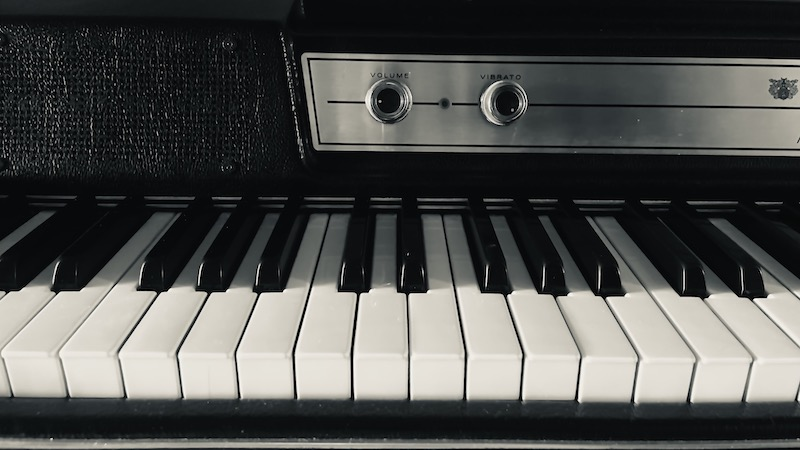
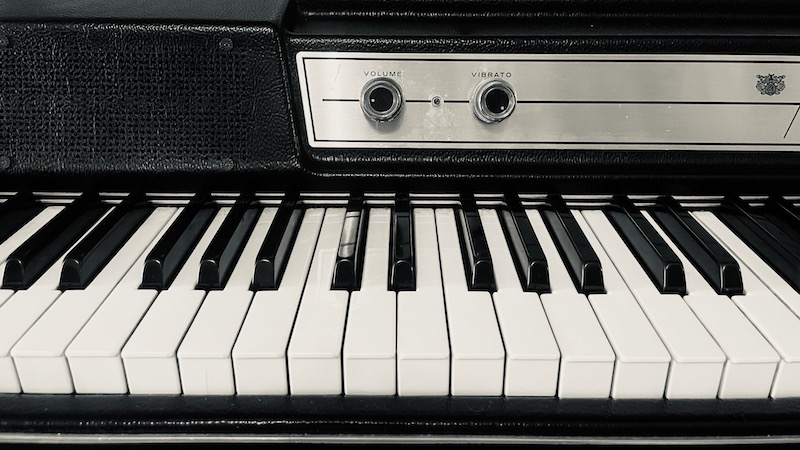
nav fixes

diff --git a/guitarlessons.html b/guitarlessons.html
@@ -81,11 +81,11 @@
 
                 <!-- Navigation Sidebar -->
                 <div class="bio-navigation">
-                    <a href="/" class="nav-link">Home</a>
-                    <a href="/voicelessons" class="nav-link">Vocal Approach</a>
-                    <a href="/guitarlessons" class="nav-link">Guitar Philosophy</a>
-                    <a href="/songwritinglessons" class="nav-link">Songwriting Sessions</a>
-                    <a href="/production" class="nav-link">Studio Production</a>
+                    <a href="/" class="nav-link">HOME</a>
+                    <a href="/voicelessons" class="nav-link">VOICE LESSONS</a>
+                    <a href="/guitarlessons" class="nav-link">GUITAR LESSONS</a>
+                    <a href="/songwritinglessons" class="nav-link">SONGWRITING LESSONS</a>
+                    <a href="/production" class="nav-link">RECORDING & PRODUCTION</a>
                 </div>
             </div>
       </div>

diff --git a/production.html b/production.html
@@ -151,11 +151,11 @@
 
                 <!-- Navigation Sidebar -->
                 <div class="bio-navigation">
-                    <a href="/" class="nav-link">Home</a>
-                    <a href="/voicelessons" class="nav-link">Vocal Approach</a>
-                    <a href="/guitarlessons" class="nav-link">Guitar Philosophy</a>
-                    <a href="/songwritinglessons" class="nav-link">Songwriting Sessions</a>
-                    <a href="/production" class="nav-link">Studio Production</a>
+                    <a href="/" class="nav-link">HOME</a>
+                    <a href="/voicelessons" class="nav-link">VOICE LESSONS</a>
+                    <a href="/guitarlessons" class="nav-link">GUITAR LESSONS</a>
+                    <a href="/songwritinglessons" class="nav-link">SONGWRITING LESSONS</a>
+                    <a href="/production" class="nav-link">RECORDING & PRODUCTION</a>
                 </div>
             </div>
         </div>

diff --git a/songwritinglessons.html b/songwritinglessons.html
@@ -93,11 +93,11 @@
 
                 <!-- Navigation Sidebar -->
                 <div class="bio-navigation">
-                    <a href="/" class="nav-link">Home</a>
-                    <a href="/voicelessons" class="nav-link">Vocal Approach</a>
-                    <a href="/guitarlessons" class="nav-link">Guitar Philosophy</a>
-                    <a href="/songwritinglessons" class="nav-link">Songwriting Sessions</a>
-                    <a href="/production" class="nav-link">Studio Production</a>
+                    <a href="/" class="nav-link">HOME</a>
+                    <a href="/voicelessons" class="nav-link">VOICE LESSONS</a>
+                    <a href="/guitarlessons" class="nav-link">GUITAR LESSONS</a>
+                    <a href="/songwritinglessons" class="nav-link">SONGWRITING LESSONS</a>
+                    <a href="/production" class="nav-link">RECORDING & PRODUCTION</a>
                 </div>
             </div>
       </div>

diff --git a/voicelessons.html b/voicelessons.html
@@ -79,11 +79,11 @@
 
                 <!-- Navigation Sidebar -->
                 <div class="bio-navigation">
-                    <a href="/" class="nav-link">Home</a>
-                    <a href="/voicelessons" class="nav-link">Vocal Approach</a>
-                    <a href="/guitarlessons" class="nav-link">Guitar Philosophy</a>
-                    <a href="/songwritinglessons" class="nav-link">Songwriting Sessions</a>
-                    <a href="/production" class="nav-link">Studio Production</a>
+                    <a href="/" class="nav-link">HOME</a>
+                    <a href="/voicelessons" class="nav-link">VOICE LESSONS</a>
+                    <a href="/guitarlessons" class="nav-link">GUITAR LESSONS</a>
+                    <a href="/songwritinglessons" class="nav-link">SONGWRITING LESSONS</a>
+                    <a href="/production" class="nav-link">RECORDING & PRODUCTION</a>
                 </div>
             </div>
       </div>

diff --git a/css/3-col-portfolio.css b/css/3-col-portfolio.css
@@ -150,7 +150,7 @@ padding-bottom: 20px
     margin-bottom: 20px;
     text-decoration: none;
     font-weight: 700;
-    font-size: 1.4rem; /* Adjust this to make it smaller or larger */
+    font-size: 1.3rem; /* Adjust this to make it smaller or larger */
     transition: all 0.3s ease;
     
     /* Colors */